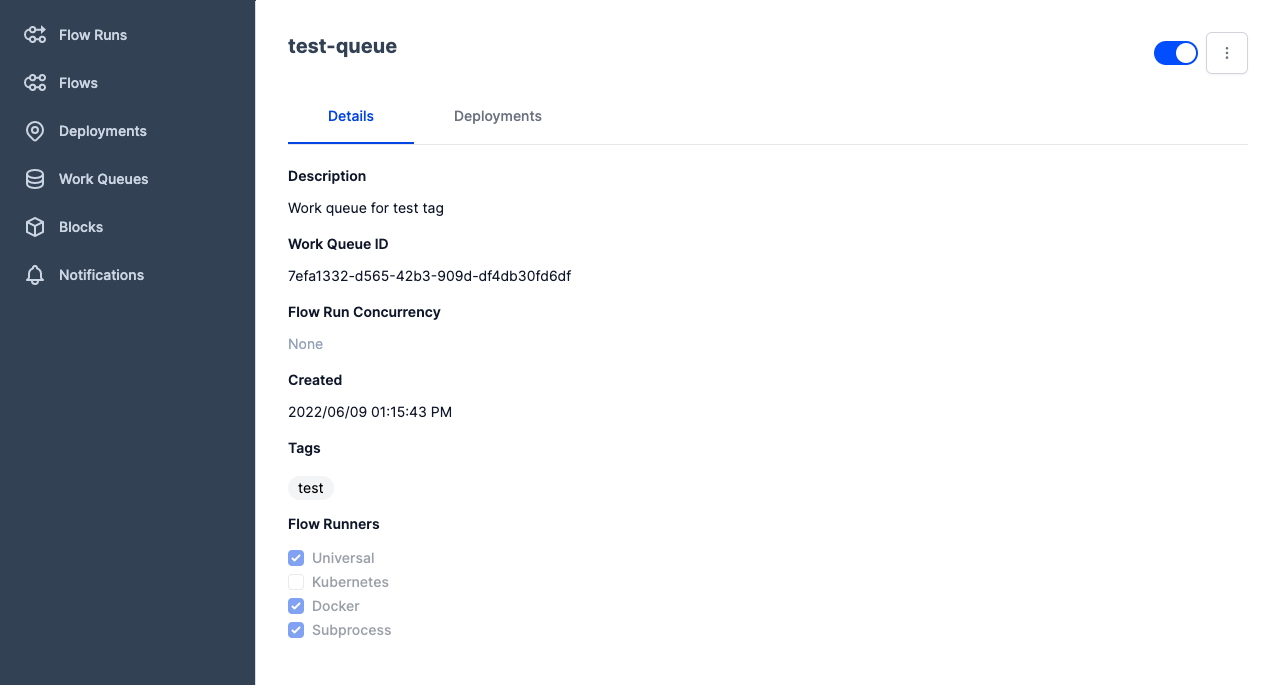
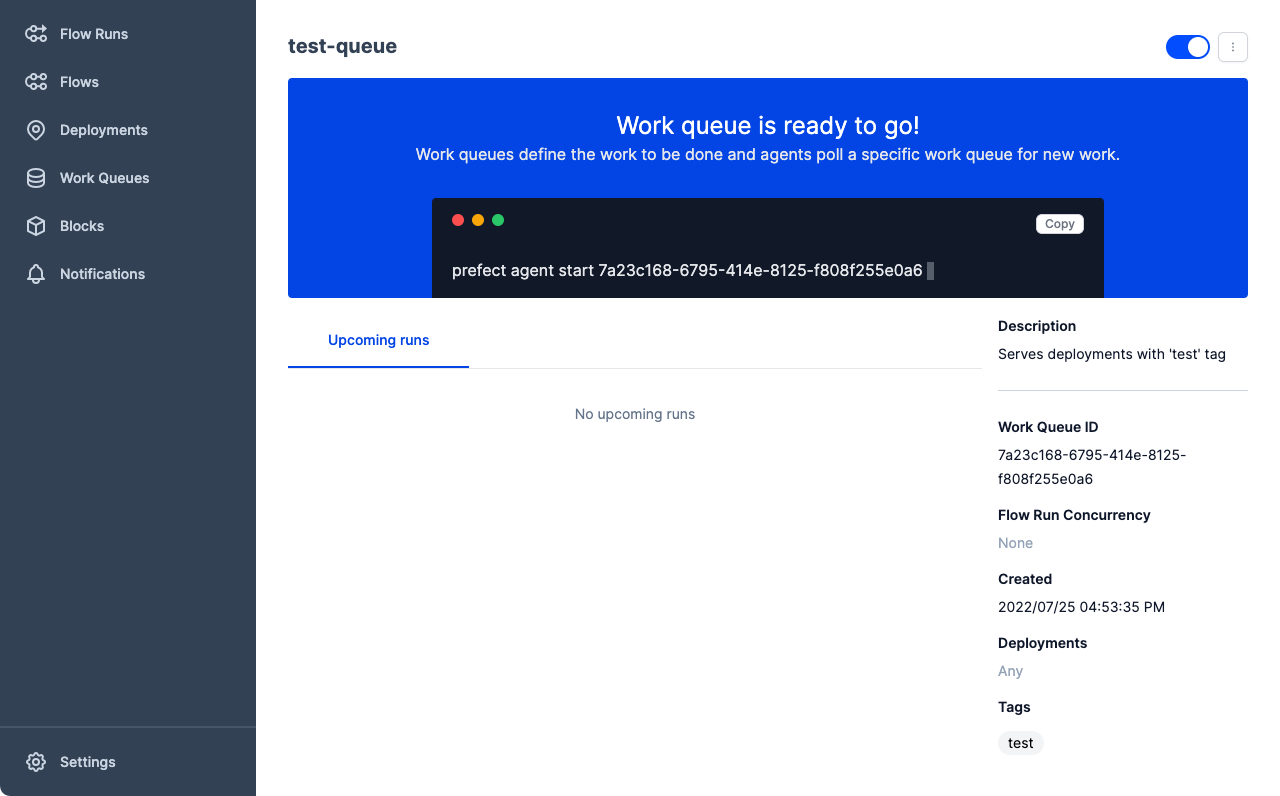
Update work queues screenshots and instructions

diff --git a/docs/ui/work-queues.md b/docs/ui/work-queues.md
@@ -36,9 +36,9 @@ Select the **+** button to create a new work queue. You'll be able to specify th
 
     Selecting all or none of the flow runners is functionally equivalent, but selecting any subset of flow runners restricts the work queue to flow runs configured to use those flow runners.
 
-See the [Work Queues and Agents](/concepts/work-queues/) documentation for details on configuring work queues.
+See the [Work Queues and Agents](/concepts/work-queues/) documentation for details on configuring work queues and agents, including creating work queues from the Prefect CLI.
 
-Click on the name of any work queue to see details about it. 
+Click on the name of any work queue to see details about it. This page includes the Prefect CLI command you can use to create an agent that pulls flow runs from this work queue.
 
 ![Viewing details of a work queue including agent configuration string](/img/ui/work-queue-details.png)
 
